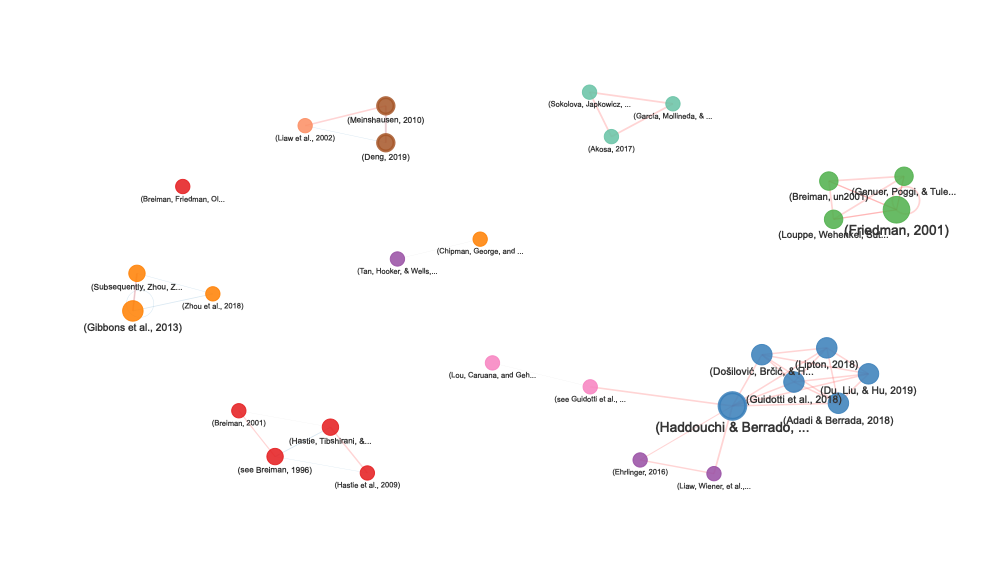
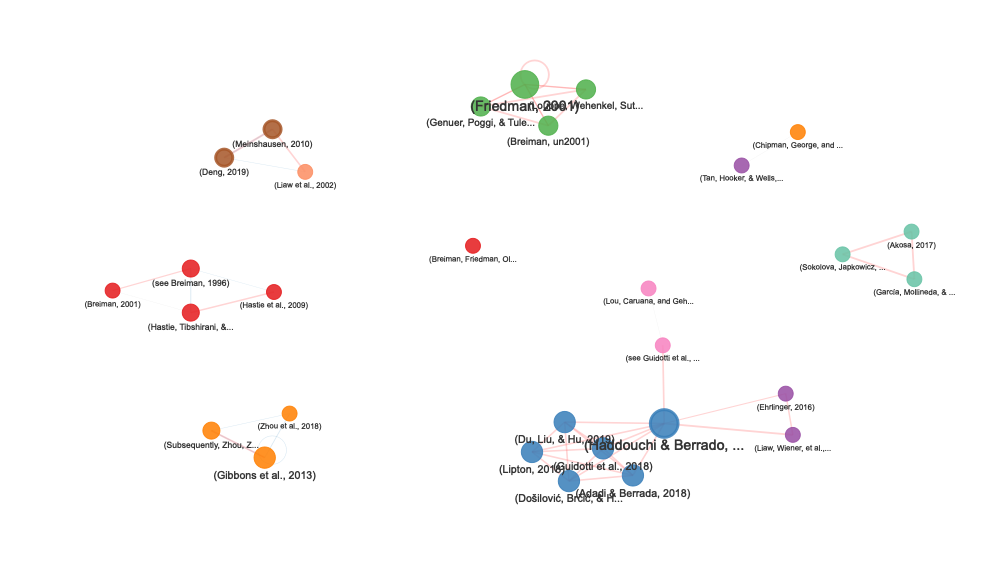
CRAN Submission

diff --git a/README.md b/README.md
@@ -257,14 +257,14 @@ analysis$summary
 #> [1] 33
 #> 
 #> $citations_matched_to_refs
-#> [1] 27
+#> [1] 43
 #> 
 #> $match_quality
 #> # A tibble: 3 × 3
 #>   match_confidence     n percentage
 #>   <chr>            <int>      <dbl>
-#> 1 high                27         54
-#> 2 no_match_author     22         44
+#> 1 high                43         86
+#> 2 no_match_author      6         12
 #> 3 no_match_year        1          2
 #> 
 #> $citation_type_used
@@ -536,15 +536,15 @@ head(analysis$citation_references_mapping[, c("citation_text_clean", "ref_author
 #> 1 (Mitchell, 1997)                         Mitchell    1997     high            
 #> 2 (Breiman, Friedman, Olshen, & Stone, 19… Breiman     1984     high            
 #> 3 https://doi.org/10.1016/j.mlwa.2021.100… <NA>        <NA>     no_match_year   
-#> 4 (Breiman, 2001)                          <NA>        <NA>     no_match_author 
-#> 5 (see Breiman, 1996)                      <NA>        <NA>     no_match_author 
+#> 4 (Breiman, 2001)                          Breiman, L. 2001     high            
+#> 5 (see Breiman, 1996)                      Breiman, L. 1996     high            
 #> 6 (Hastie, Tibshirani, & Friedman, 2009)   Hastie      2009     high
 
 # Match quality distribution
 table(analysis$citation_references_mapping$match_confidence)
 #> 
 #>            high no_match_author   no_match_year 
-#>              27              22               1
+#>              43               6               1
 ```
 
 ### Finding citations to specific authors
@@ -572,7 +572,7 @@ if (!is.null(analysis$references_oa)) {
   summary(analysis$references_oa$cited_by_count)
 }
 #>     Min.  1st Qu.   Median     Mean  3rd Qu.     Max. 
-#>     93.0    279.2   1712.5  11101.6   4573.8 110356.0
+#>     93.0    279.5   1712.5  11102.4   4573.8 110356.0
 ```
 
 ### Citations by section
